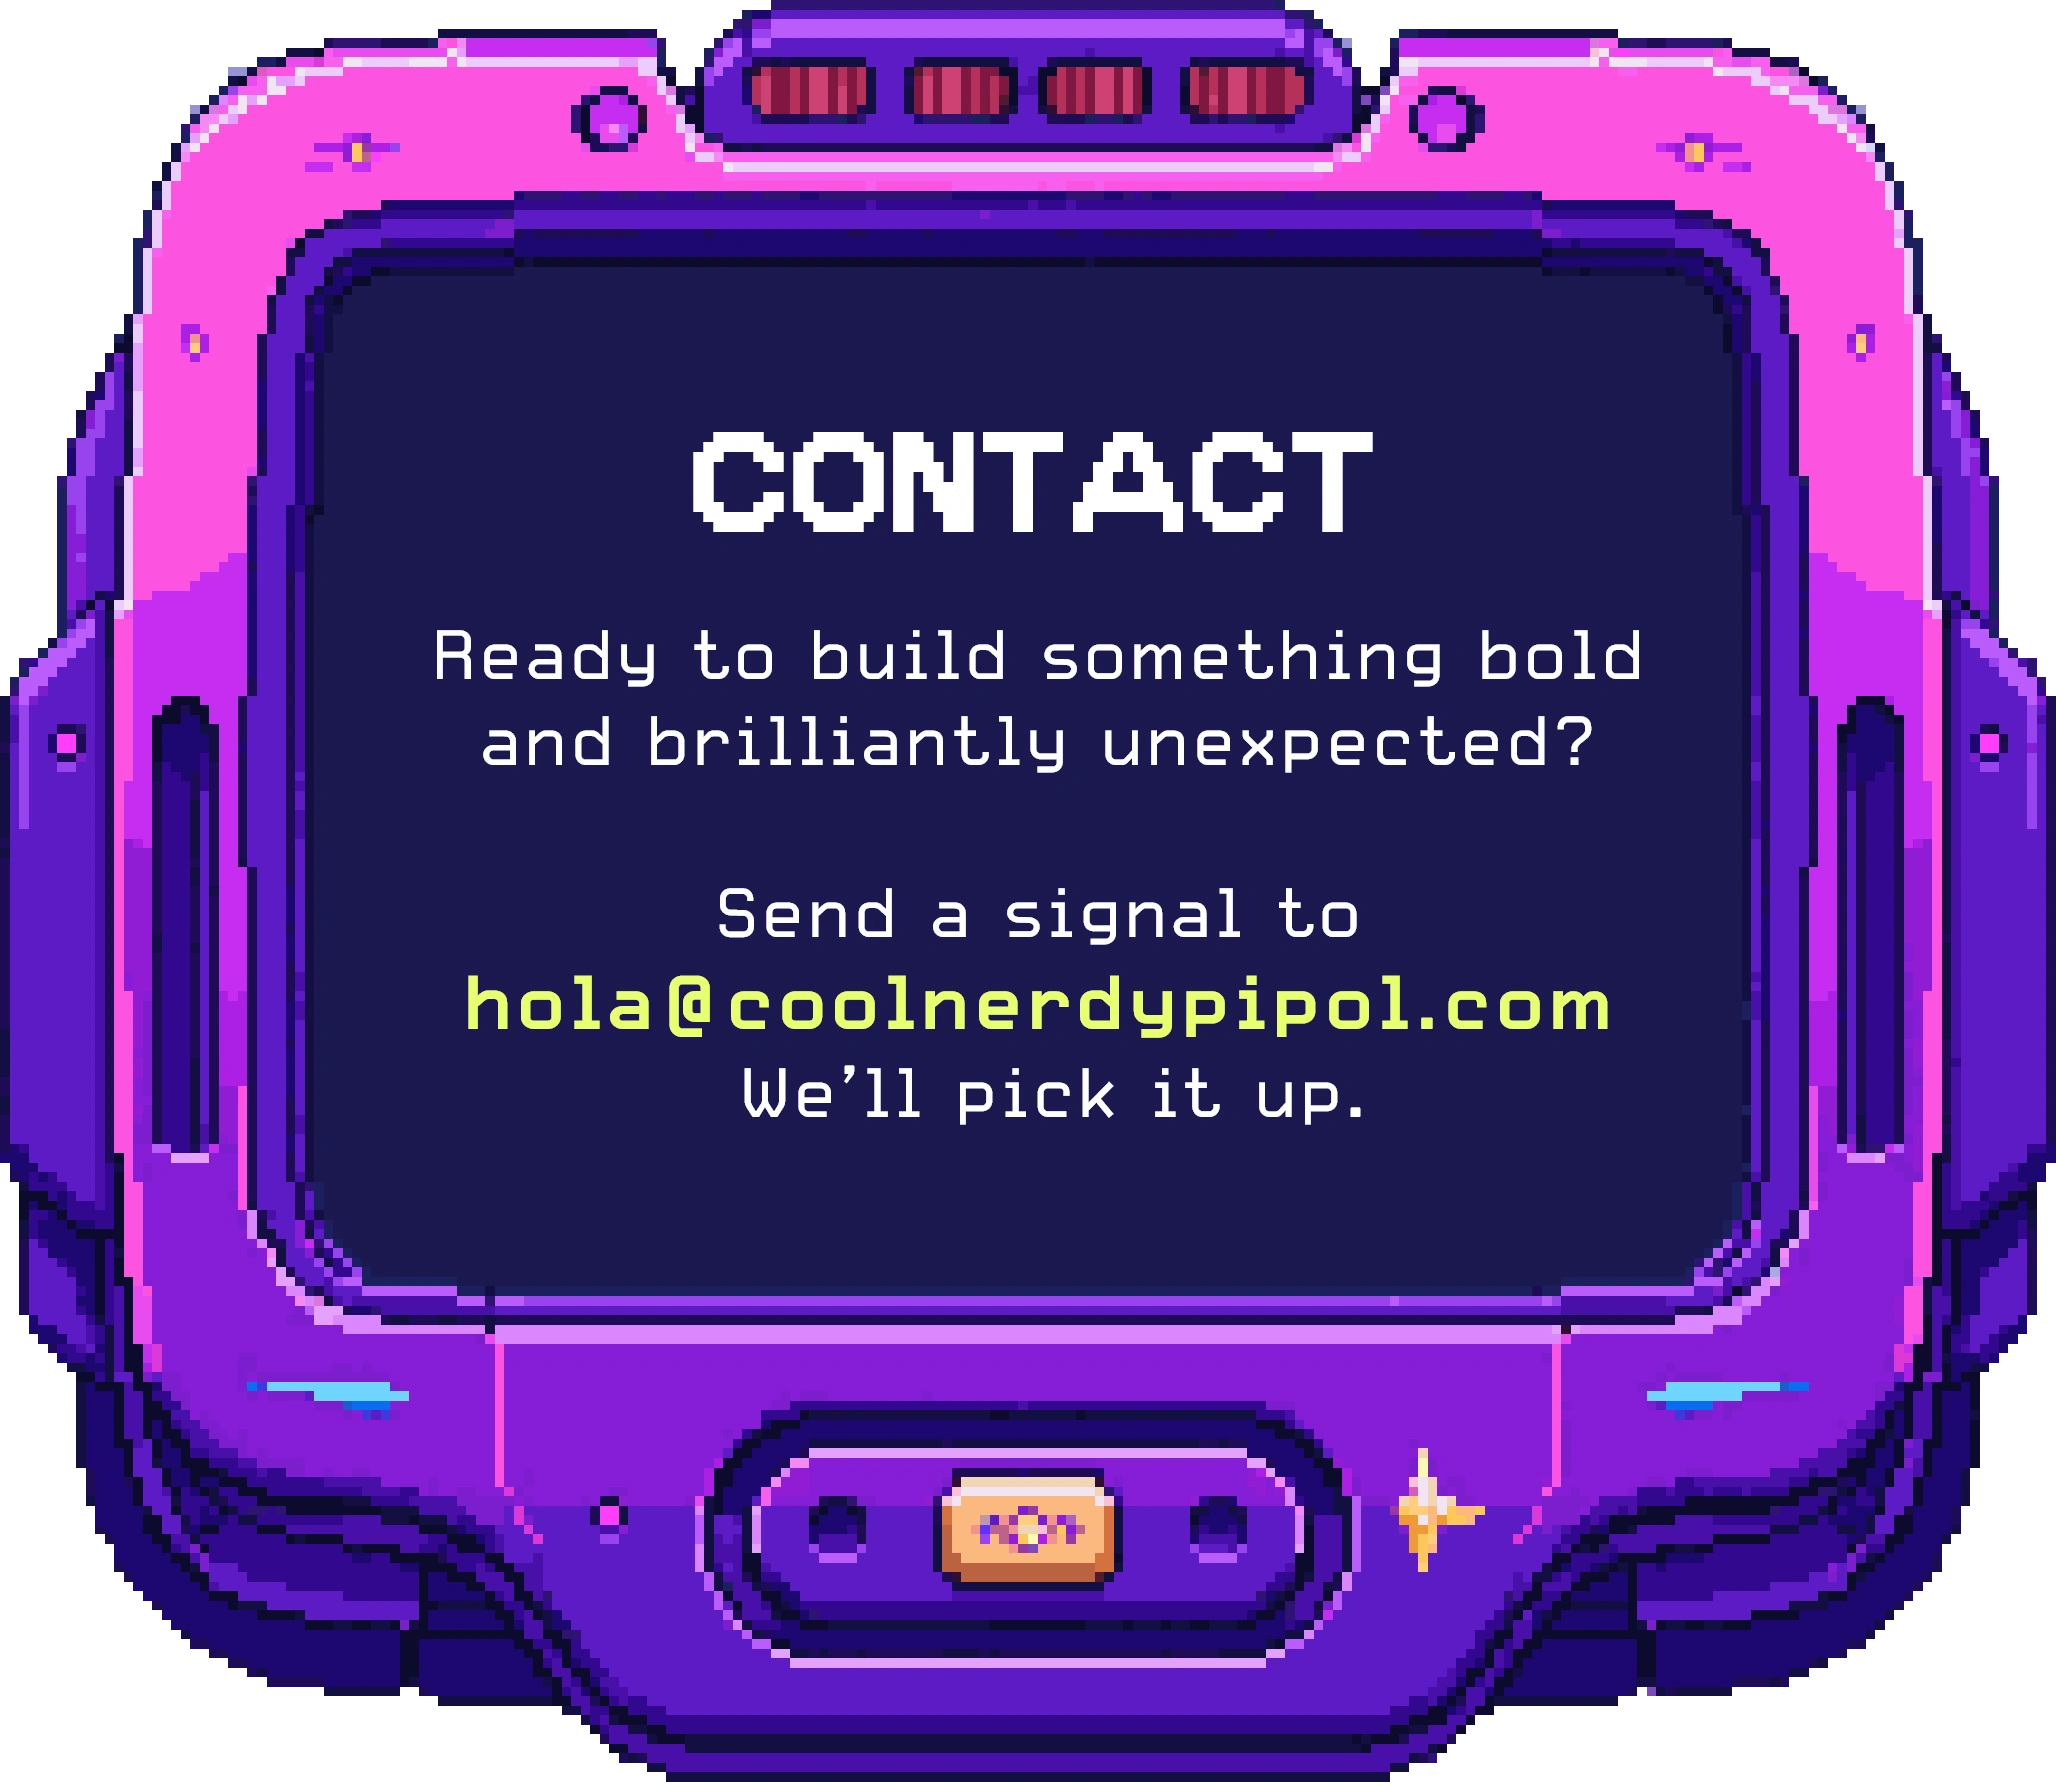
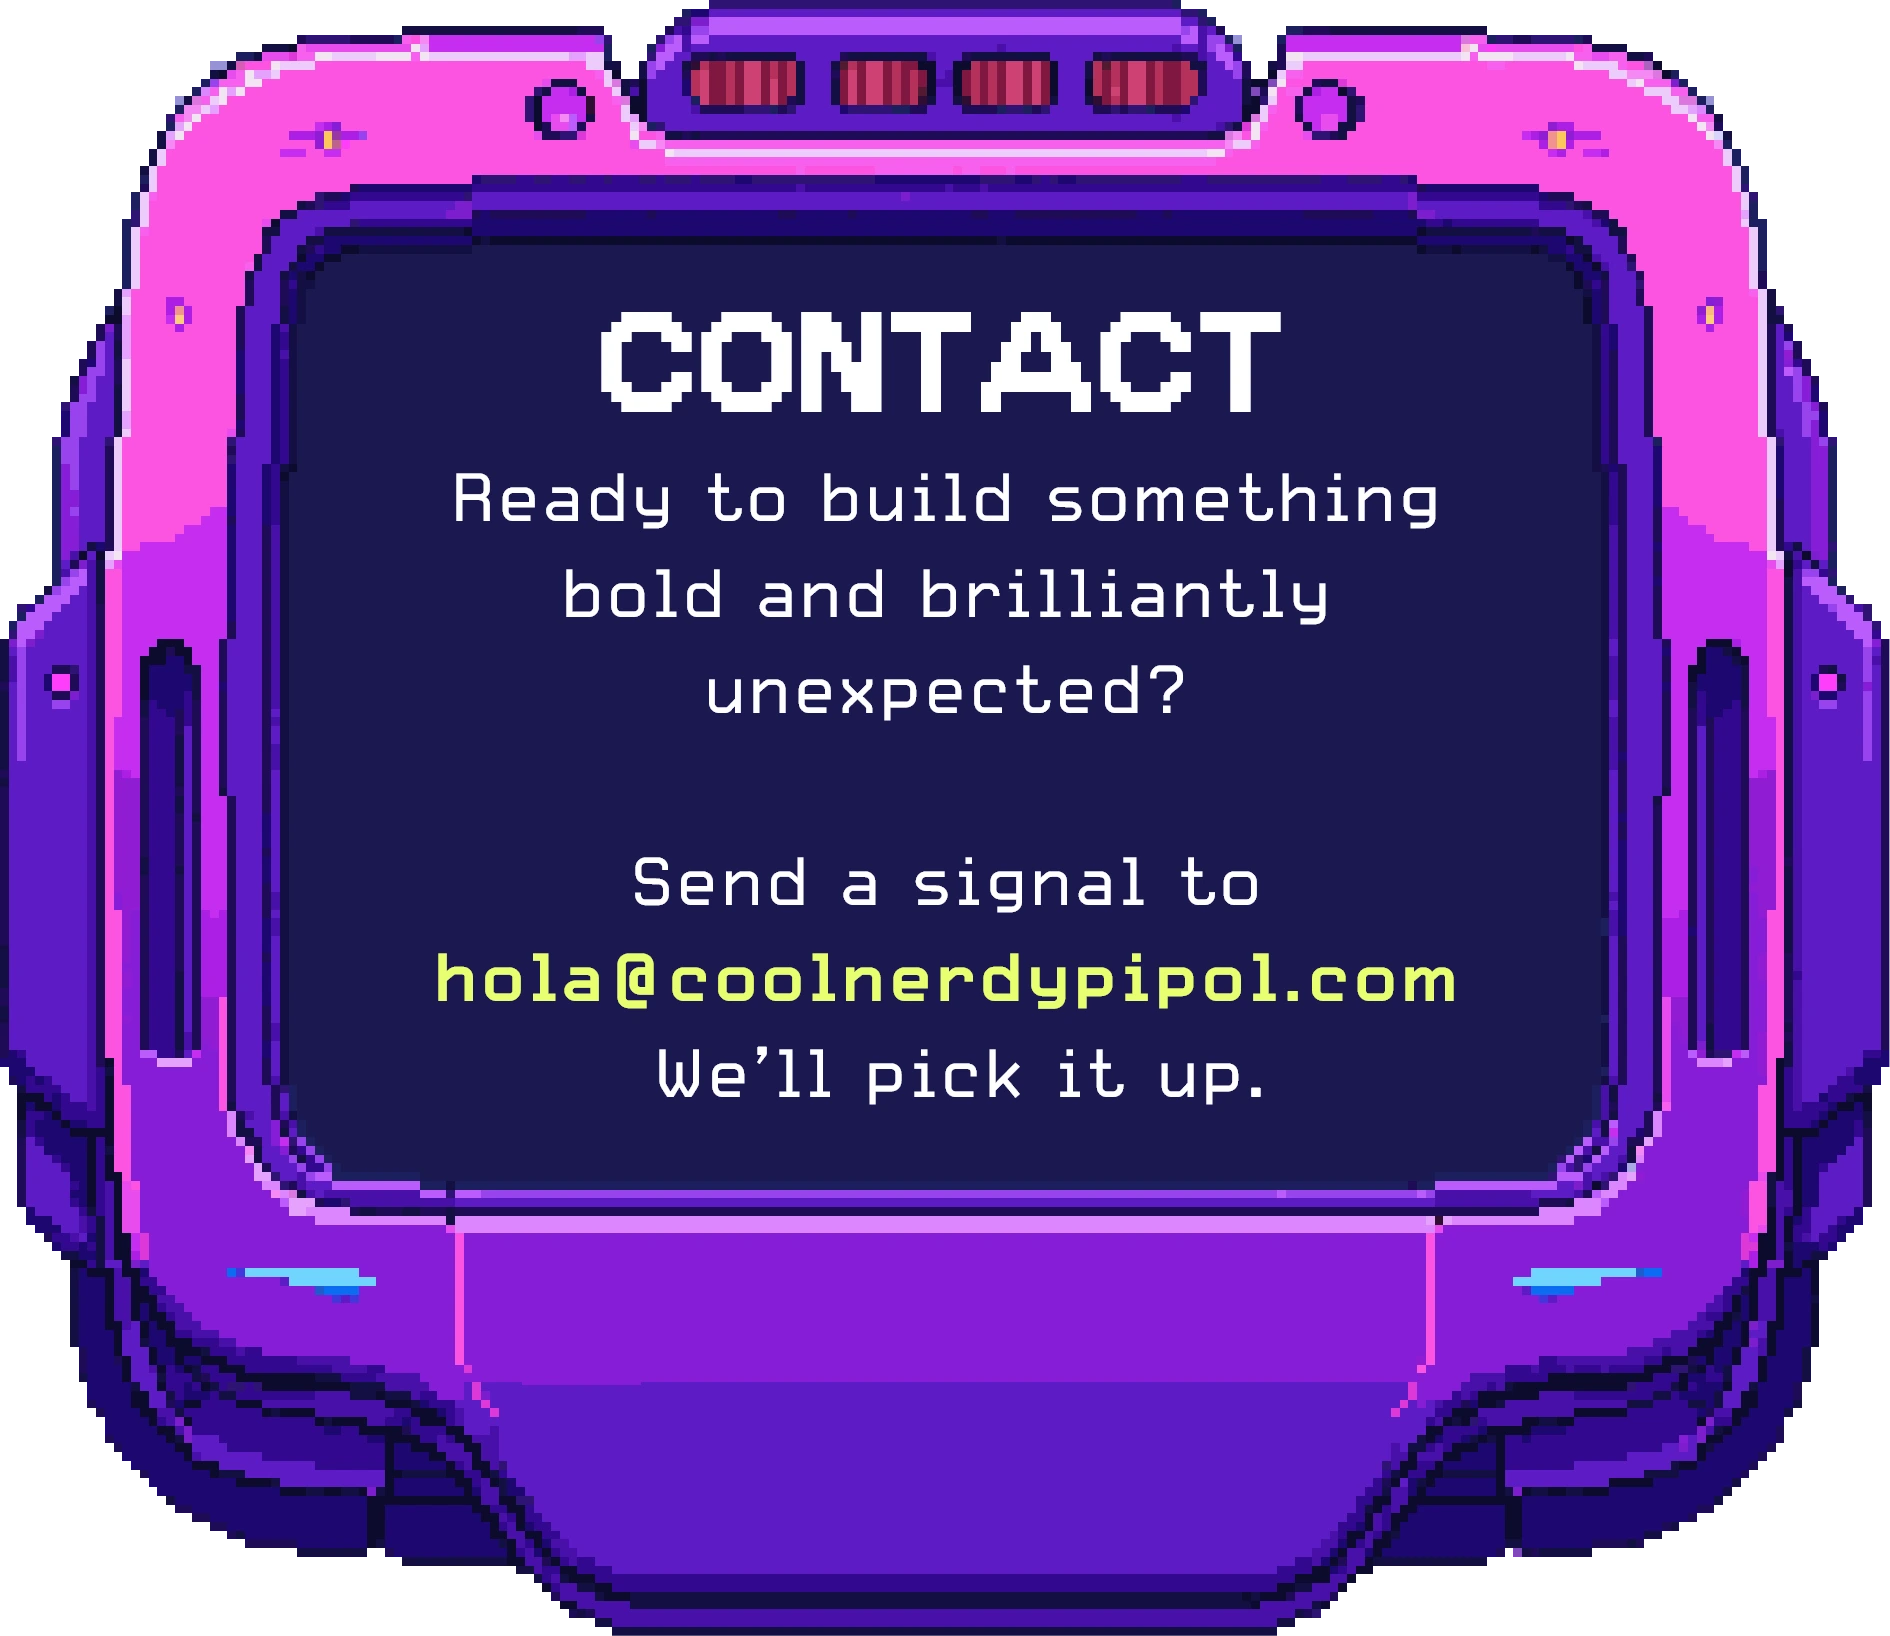
tv button

diff --git a/src/pages/Founders/Founders.tsx b/src/pages/Founders/Founders.tsx
@@ -159,7 +159,7 @@ export default function Founders() {
           <Screens width="65vw" top="10vw" />
         </ParallaxLayer>
 
-        <ParallaxLayer style={{ zIndex: 2 }} offset={1} speed={0.2} factor={0.25}>
+        <ParallaxLayer style={{ zIndex: 2 }} offset={1} speed={0.1} factor={0.25}>
           <div className="centerDiv" style={{ justifyContent: 'flex-end', position: 'relative' }}>
             <div
               style={{
@@ -174,7 +174,7 @@ export default function Founders() {
               <img src={tv} style={{ width: '100%', display: 'block' }} />
               <img
                 src={ContactUs}
-                style={{ width: '30%', position: 'absolute', top: '65%' }}
+                style={{ width: '30%', position: 'absolute', top: '80%' }}
                 onClick={() => window.open('mailto:hola@coolnerdypipol.com')}
               />
             </div>

diff --git a/src/pages/Founders/FoundersMobil.tsx b/src/pages/Founders/FoundersMobil.tsx
@@ -143,7 +143,7 @@ export default function Founders() {
               <img src={tv} style={{ width: '100%', display: 'block' }} />
               <img
                 src={ContactUs}
-                style={{ width: '35%', position: 'absolute', top: '68%' }}
+                style={{ width: '35%', position: 'absolute', top: '78%' }}
                 onClick={() => window.open('mailto:hola@coolnerdypipol.com')}
               />
             </div>

diff --git a/src/pages/Founders/FoundersTablet.tsx b/src/pages/Founders/FoundersTablet.tsx
@@ -142,7 +142,7 @@ export default function Founders() {
               <img src={tv} style={{ width: '100%', display: 'block' }} />
               <img
                 src={ContactUs}
-                style={{ width: '30%', position: 'absolute', top: '65%' }}
+                style={{ width: '30%', position: 'absolute', top: '80%' }}
                 onClick={() => window.open('mailto:hola@coolnerdypipol.com')}
               />
             </div>
